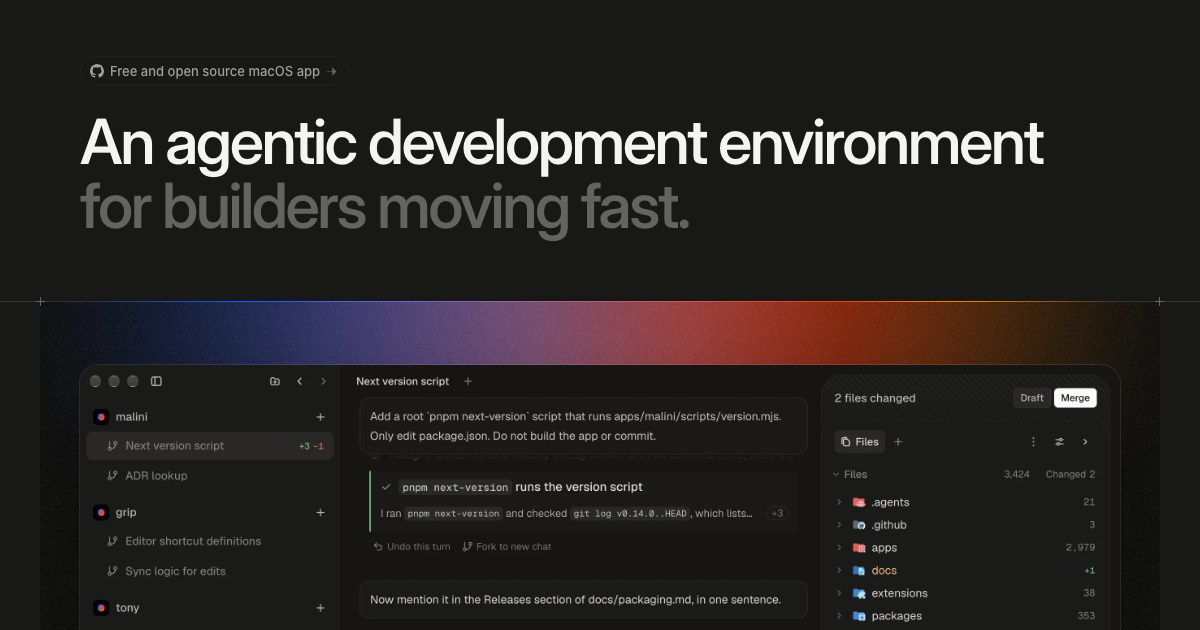
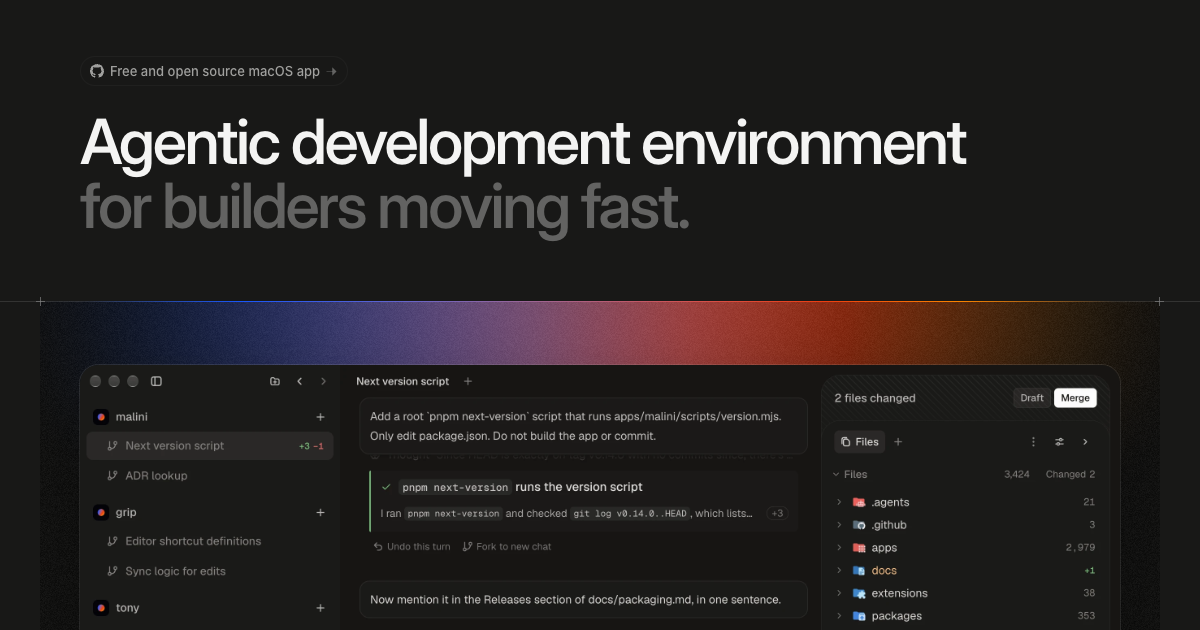
docs(site): drop "an" before "agentic development environment (#86)
* docs(site): drop "an" before "agentic development environment

* Fix failing checks

---------

Changed region(s): [[0.0925, 0.181, 0.8633, 0.3016]]

diff --git a/apps/site/src/lib/Head.svelte b/apps/site/src/lib/Head.svelte
@@ -27,7 +27,7 @@
 	<meta property="og:image:height" content="630" />
 	<meta
 		property="og:image:alt"
-		content="Malini's page: An agentic development environment for builders moving fast, over the Malini window with workstreams in its sidebar, a chat, and Draft and Merge above 2 changed files."
+		content="Malini's page: Agentic development environment for builders moving fast, over the Malini window with workstreams in its sidebar, a chat, and Draft and Merge above 2 changed files."
 	/>
 	<meta name="twitter:card" content="summary_large_image" />
 	<link rel="alternate" type="text/plain" title="llms.txt" href="{SITE_URL}/llms.txt" />

diff --git a/apps/site/src/lib/Hero.svelte b/apps/site/src/lib/Hero.svelte
@@ -19,7 +19,7 @@
 			<Arrow class="ahead" />
 		</a>
 		<h1 id="hero-title">
-			<span>An agentic development environment</span>
+			<span>Agentic development environment</span>
 			<span class="quiet">for builders moving fast.</span>
 		</h1>
 		{@render children?.()}

diff --git a/apps/site/src/routes/(site)/+page.svelte b/apps/site/src/routes/(site)/+page.svelte
@@ -141,7 +141,7 @@
 	];
 </script>
 
-<Head title="Malini: an agentic development environment" description={SITE_DESCRIPTION} path="" />
+<Head title="Malini: agentic development environment" description={SITE_DESCRIPTION} path="" />
 
 <Hero>
 	<p class="lede">

diff --git a/apps/site/content/index.md b/apps/site/content/index.md
@@ -3,7 +3,7 @@ title: What Malini is
 description: Malini is a free, open source agentic development environment for builders moving fast. Run as many agents as you want. Malini handles the chores, so you only review pull requests and the gains compound.
 ---
 
-Malini is an agentic development environment for builders moving fast, as a Mac app.
+Malini is agentic development environment for builders moving fast, as a Mac app.
 Each task you start is a **workstream**: its own git worktree, its own branch, and its own agent chats.
 Agents write the code, and Malini owns git: it commits, opens the pull request, fixes red checks, answers reviews, and merges.
 It runs on Claude Code today.

diff --git a/README.md b/README.md
@@ -5,7 +5,7 @@
 <h1 align="center">Malini</h1>
 
 <p align="center">
-  <b>An agentic development environment for builders moving fast.</b><br>
+  <b>Agentic development environment for builders moving fast.</b><br>
   Run as many agents as you want. Malini handles the chores, so you only review pull requests and the gains compound.<br>
   Free and open source macOS app.
 </p>
